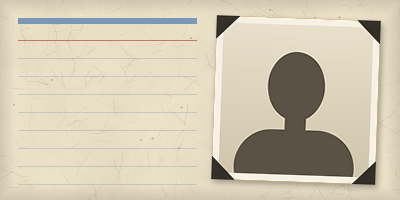
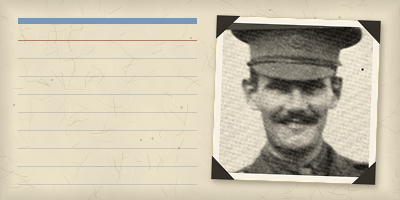
WWII portraits: Menzies from the 1914 photograph with his brother
TeeJ, 2026-09-30: Stewart Menzies is the man on the right in "Keith and
Stewart Menzies 1914.jpg" (public domain, PD-old). He had the drawn stand-in;
he now has his face from it, cropped to head and shoulders (128 px of a
497x800 book scan, so his picture is soft).

- tools/look/ww2_portraits.json: his record (file, SHA-1, licence, crop, a
  note on which man he is and why this photograph).
- make_ww2_portraits.py: no stand-in credits entry when no one uses it.
- tests/capture_ww2_portraits.gd: --who=<id> captures that character's
  Encyclopedia entry and status window (the stand-in shot had no one left).
- No WWII character has the stand-in now; it stays in the tool.

tests/ww2_portraits.gd 1352 checks, 0 failed; tests/asset_credits.gd 369 files
credited, 0 failed.

Changed region(s): [[0.54, 0.09, 0.93, 0.9], [0.9, 0.33, 0.93, 0.36], [0.54, 0.66, 0.57, 0.69]]

diff --git a/tools/look/make_ww2_portraits.py b/tools/look/make_ww2_portraits.py
@@ -228,6 +228,8 @@ def credit_entries(people, names):
         e["changes"] = changes
         e["files"] = files
         out.append(e)
+    if not generic_files:
+        return out
     out.append({
         "title": "Portrait: the generic stand-in",
         "what": "The picture of a person without a usable photograph: %s" % ", ".join(names.get(pid, people[pid]["name"]) for pid in people if "generic" in people[pid]),

diff --git a/packs/ww2/PACK.md b/packs/ww2/PACK.md
@@ -100,7 +100,7 @@ source-repo change on `tschmitz-dev` with its own go-ahead.
 | **Facility pictures** (2026-09-30) | Every facility's Encyclopedia picture, portrait and list miniature, in `art/` (SCHEMA.md §14): 15 engineering plates in ink line and a light wash on the look's paper - side elevations (sections for the minefield and the fortress line), no flag or marking on anything. The project's own work, drawn by `tools/look/make_ww2_facilities.py`. |
 | **Roster** | 77 units (+22): Italian and Japanese squadrons and divisions, Hurricane, Wildcat, Hellcat, Avenger, Yak-9, Il-2, P-40, D.520, US and Soviet and French divisions. Every one still copies a Star Wars template's numbers. |
 | **Characters** | 71 (+27): Model, Rundstedt, Student, Galland, Ozawa, Marshall, King, Harris, Tedder, Rokossovsky, Chuikov, Spruance, Wingate, Chennault, Zhu De, Menzies… **Opening places** (2026-09-22, `starts_at`): the leaders open in their own countries — Churchill, Alanbrooke, Montgomery, Cunningham and Dowding in Britain; Roosevelt, Eisenhower, Marshall and Nimitz in the United States; de Gaulle and Leclerc in France; Stalin and Zhukov in Russia; Chiang in China; Hitler, Göring, Guderian and Dönitz in Germany; Mussolini, Ciano and Graziani in Italy; Tojo, Yamamoto and Nagumo in Japan. |
-| **Personnel pictures** (2026-09-29) | Every character's Encyclopedia picture, portrait and list miniature, in `art/` (SCHEMA.md §14): 70 photographs from Wikimedia Commons (public domain, CC0, CC BY, CC BY-SA - each checked on its own page), black and white on a personnel card, and a drawn stand-in for Menzies (no freely licensed photograph). No picture shows a swastika or an Iron Cross; an eagle may, as long as the swastika does not (TeeJ, 2026-09-30) - Model's is cut from below his cap eagle and the swastika in its talons. Made by `tools/look/make_ww2_portraits.py`; the source, licence, SHA-1 and crop of each are in `art/PORTRAITS.md` and `credits.json`. |
+| **Personnel pictures** (2026-09-29) | Every character's Encyclopedia picture, portrait and list miniature, in `art/` (SCHEMA.md §14): 71 photographs from Wikimedia Commons (public domain, CC0, CC BY, CC BY-SA - each checked on its own page), black and white on a personnel card; Menzies' is the only free one of him, with his brother in 1914 (TeeJ, 2026-09-30). The drawn stand-in stays in the tool for a character without a photograph. No picture shows a swastika or an Iron Cross; an eagle may, as long as the swastika does not (TeeJ, 2026-09-30) - Model's is cut from below his cap eagle and the swastika in its talons. Made by `tools/look/make_ww2_portraits.py`; the source, licence, SHA-1 and crop of each are in `art/PORTRAITS.md` and `credits.json`. |
 
 **Verified:** both packs validate; a 60-day soak as the Axis on the huge map completes with 10 fleets and 15 capital ships at day zero.
 

diff --git a/packs/ww2/art/PORTRAITS.md b/packs/ww2/art/PORTRAITS.md
@@ -85,8 +85,9 @@ photograph gets the drawn stand-in instead.
 | Orde Wingate | `wingate` | [Ordecharleswingate.jpg](https://commons.wikimedia.org/wiki/File:Ordecharleswingate.jpg) | Public domain (PD-USGov-Military) | U.S. military photo | `8510fe35e726d570801994e65396ab8c6b545dae` `[0.5, 0.33, 0.45]` |
 | Claire Chennault | `chennault` | [Claire L. Chennault.jpg](https://commons.wikimedia.org/wiki/File:Claire_L._Chennault.jpg) | Public domain (PD-USGov) | Unknown military photographer | `9db293aeab0a509771516bbb803fc9460896f042` `[0.5, 0.3, 0.45]` |
 | Zhu De | `zhu_de` | [Zhu De (1922).jpg](https://commons.wikimedia.org/wiki/File:Zhu_De_(1922).jpg) | Public domain (PD-anon-70-EU, PD-US-expired) | Unknown | `85b734089efee369b8e0bc1210341b8bf21d68b1` `[0.5, 0.33, 0.5]` |
-| Stewart Menzies | `menzies` | the generic stand-in: No freely licensed photograph found: the only close portraits on Wikimedia Commons (1953) are uploads under a CC BY-SA licence the uploader could not grant. | | | |
+| Stewart Menzies | `menzies` | [Keith and Stewart Menzies 1914.jpg](https://commons.wikimedia.org/wiki/File:Keith_and_Stewart_Menzies_1914.jpg) | Public domain (PD-old) | Unknown author | `e8fcb69289ce118dbc7b353442e9f3245247661d` `[0.654, 0.092, 0.16]` |
 
 ## Notes
 
 - **Walter Model**: Cropped from below the cap eagle and the swastika in its talons (both above the top edge) to above the collar and its Knight's Cross: the oak wreath and cockade stay (TeeJ, 2026-09-30: the eagle may show, the swastika never).
+- **Stewart Menzies**: Stewart Menzies is the man on the right, beside his brother Keith, in 1914 (TeeJ, 2026-09-30). The only freely licensed photograph of him: the 1953 portraits on Commons carry a licence their uploaders could not grant. Small (497x800, from a book), so his picture is soft.
